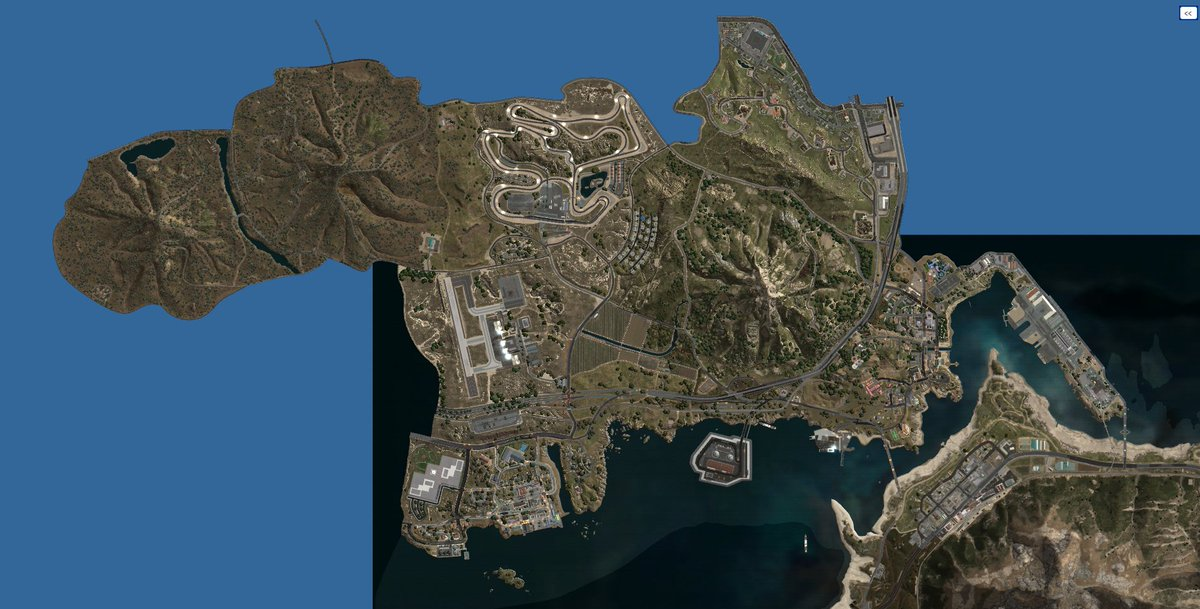
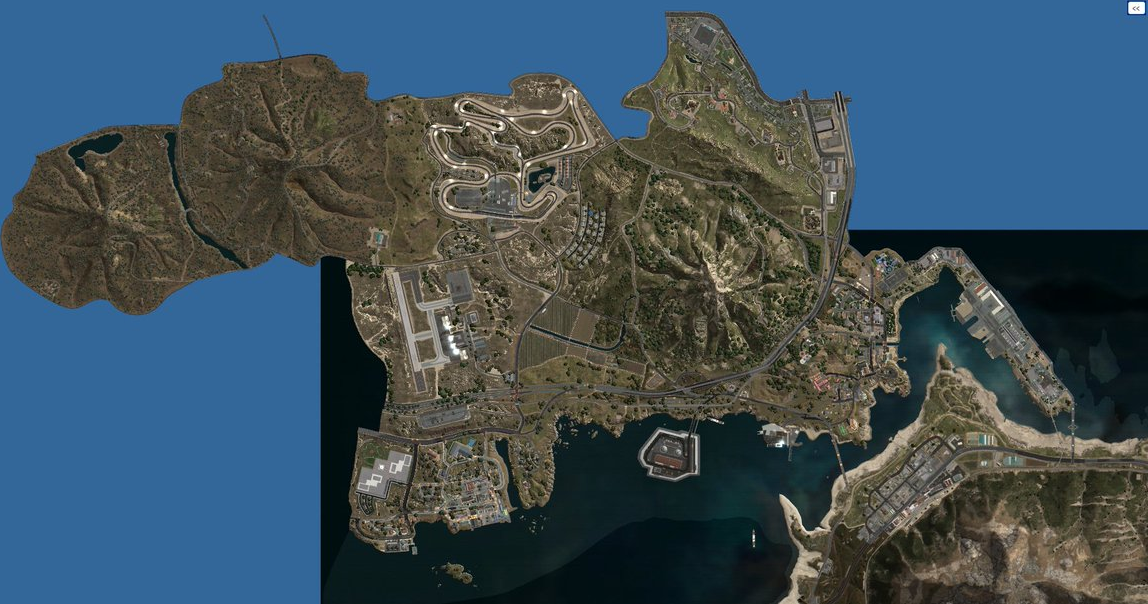
Trim excess ocean border from maps, rename Kiképzési Mátrix, bump v8
- Auto-trimmed the uniform blue background/water margin around Los
  Santos (1080x1467 -> 961x1371) and Roxwood (1200x609 -> 1148x604)
  with sharp's edge-trim, re-encoded lossless so no quality was lost
  in the process (first pass accidentally re-compressed lossy -
  caught it via file size and redid it losslessly).
- Renamed the "Képzési Mátrix" nav item to "Kiképzési Mátrix" to match
  the "Kiképzési" wording already used elsewhere (brand subtitle,
  login screen).
- Re-checked the Cayo Perico link sent again (cdn.discordapp.com,
  no proxy params) - same 545x500 source photo as before, still too
  low quality to use. Left on the placeholder per "Los Santos alone
  is enough for now."

diff --git a/js/app.js b/js/app.js
@@ -2,19 +2,19 @@
    U.S.S.S. ELITE TRAINING SYSTEM — APP ENTRY
    ========================================================================== */
 
-import { seedIfNeeded, globalSearch } from "./store.js?v=7";
-import { isAuthenticated, currentSession, logout, hasRole, ROLES } from "./auth.js?v=7";
-import { registerRoute, resolve, startRouter, navigate, currentPath } from "./router.js?v=7";
-import { esc, sealMark } from "./utils.js?v=7";
-import { renderLogin } from "./pages/login.js?v=7";
-import { renderDashboard } from "./pages/dashboard.js?v=7";
-import { renderPersonnelList } from "./pages/personnel.js?v=7";
-import { renderProfile } from "./pages/profile.js?v=7";
-import { renderMatrix } from "./pages/matrix.js?v=7";
-import { renderProtocolsList, renderProtocolDetail } from "./pages/protocols.js?v=7";
-import { renderLocationsList, renderLocationDetail } from "./pages/locations.js?v=7";
-import { renderMapPage } from "./pages/map.js?v=7";
-import { renderAdmin } from "./pages/admin.js?v=7";
+import { seedIfNeeded, globalSearch } from "./store.js?v=8";
+import { isAuthenticated, currentSession, logout, hasRole, ROLES } from "./auth.js?v=8";
+import { registerRoute, resolve, startRouter, navigate, currentPath } from "./router.js?v=8";
+import { esc, sealMark } from "./utils.js?v=8";
+import { renderLogin } from "./pages/login.js?v=8";
+import { renderDashboard } from "./pages/dashboard.js?v=8";
+import { renderPersonnelList } from "./pages/personnel.js?v=8";
+import { renderProfile } from "./pages/profile.js?v=8";
+import { renderMatrix } from "./pages/matrix.js?v=8";
+import { renderProtocolsList, renderProtocolDetail } from "./pages/protocols.js?v=8";
+import { renderLocationsList, renderLocationDetail } from "./pages/locations.js?v=8";
+import { renderMapPage } from "./pages/map.js?v=8";
+import { renderAdmin } from "./pages/admin.js?v=8";
 
 seedIfNeeded();
 
@@ -26,7 +26,7 @@ const NAV = [
   ]},
   { group: "Állomány & Képzés", items: [
     { path: "/personnel", label: "Állomány", icon: "☰" },
-    { path: "/matrix", label: "Képzési Mátrix", icon: "▦" },
+    { path: "/matrix", label: "Kiképzési Mátrix", icon: "▦" },
     { path: "/protocols", label: "Jegyzőkönyvek", icon: "▤" },
   ]},
   { group: "Objektumok", items: [

diff --git a/js/pages/locations.js b/js/pages/locations.js
@@ -1,9 +1,9 @@
-import { getLocations, getLocation, upsertLocation, deleteLocation, ref, mapById } from "../store.js?v=7";
-import { hasRole, actorLabel } from "../auth.js?v=7";
-import { esc, fmtDateTime, toast, openModal, closeModal } from "../utils.js?v=7";
-import { navigate } from "../router.js?v=7";
-import { createPanZoomMap } from "../mapview.js?v=7";
-import { openOnMap } from "./map.js?v=7";
+import { getLocations, getLocation, upsertLocation, deleteLocation, ref, mapById } from "../store.js?v=8";
+import { hasRole, actorLabel } from "../auth.js?v=8";
+import { esc, fmtDateTime, toast, openModal, closeModal } from "../utils.js?v=8";
+import { navigate } from "../router.js?v=8";
+import { createPanZoomMap } from "../mapview.js?v=8";
+import { openOnMap } from "./map.js?v=8";
 
 export function renderLocationsList(container) {
   const canEdit = hasRole("TRAINING");

diff --git a/js/pages/map.js b/js/pages/map.js
@@ -1,9 +1,9 @@
-import { ref, mapById, locationsForMap, districtsForMap, upsertDistrict, deleteDistrict } from "../store.js?v=7";
-import { hasRole, actorLabel } from "../auth.js?v=7";
-import { esc, toast, openModal, closeModal } from "../utils.js?v=7";
-import { navigate } from "../router.js?v=7";
-import { createPanZoomMap } from "../mapview.js?v=7";
-import { openLocationForm } from "./locations.js?v=7";
+import { ref, mapById, locationsForMap, districtsForMap, upsertDistrict, deleteDistrict } from "../store.js?v=8";
+import { hasRole, actorLabel } from "../auth.js?v=8";
+import { esc, toast, openModal, closeModal } from "../utils.js?v=8";
+import { navigate } from "../router.js?v=8";
+import { createPanZoomMap } from "../mapview.js?v=8";
+import { openLocationForm } from "./locations.js?v=8";
 
 let activeMapId = null;
 let addingDistrict = false;

diff --git a/js/pages/profile.js b/js/pages/profile.js
@@ -2,10 +2,10 @@ import {
   getPerson, ref, moduleState, readinessPercent, levelProgress, probationInfo,
   setModuleTheory, setModulePractical, approveLevelUp, nextLevelId, liftProbation,
   levelLabel, moduleByCode, examStats, THEORY_PASS_THRESHOLD,
-} from "../store.js?v=7";
-import { hasRole, actorLabel } from "../auth.js?v=7";
-import { esc, initials, fmtDate, fmtDateTime, toast, openModal, closeModal } from "../utils.js?v=7";
-import { navigate } from "../router.js?v=7";
+} from "../store.js?v=8";
+import { hasRole, actorLabel } from "../auth.js?v=8";
+import { esc, initials, fmtDate, fmtDateTime, toast, openModal, closeModal } from "../utils.js?v=8";
+import { navigate } from "../router.js?v=8";
 
 let activeTab = "modules";
 

diff --git a/js/pages/protocols.js b/js/pages/protocols.js
@@ -1,7 +1,7 @@
-import { getProtocols, getProtocol, getPersonnel, createProtocol, ref, moduleByCode } from "../store.js?v=7";
-import { hasRole, actorLabel } from "../auth.js?v=7";
-import { esc, fmtDate, fmtDateTime, toast, openModal, closeModal } from "../utils.js?v=7";
-import { navigate } from "../router.js?v=7";
+import { getProtocols, getProtocol, getPersonnel, createProtocol, ref, moduleByCode } from "../store.js?v=8";
+import { hasRole, actorLabel } from "../auth.js?v=8";
+import { esc, fmtDate, fmtDateTime, toast, openModal, closeModal } from "../utils.js?v=8";
+import { navigate } from "../router.js?v=8";
 
 export function renderProtocolsList(container) {
   const canEdit = hasRole("TRAINING");

diff --git a/js/pages/personnel.js b/js/pages/personnel.js
@@ -1,7 +1,7 @@
-import { getPersonnel, upsertPerson, deletePerson, readinessPercent, ref, probationInfo } from "../store.js?v=7";
-import { hasRole, actorLabel } from "../auth.js?v=7";
-import { esc, initials, toast, openModal, closeModal } from "../utils.js?v=7";
-import { navigate } from "../router.js?v=7";
+import { getPersonnel, upsertPerson, deletePerson, readinessPercent, ref, probationInfo } from "../store.js?v=8";
+import { hasRole, actorLabel } from "../auth.js?v=8";
+import { esc, initials, toast, openModal, closeModal } from "../utils.js?v=8";
+import { navigate } from "../router.js?v=8";
 
 let state = { search: "", position: "", level: "", status: "" };
 

diff --git a/js/pages/admin.js b/js/pages/admin.js
@@ -1,6 +1,6 @@
-import { getAccessCodes, upsertAccessCode, revokeAccessCode, generateCode, getAuditLog, getPersonnel, resetAllData, ref } from "../store.js?v=7";
-import { hasRole, actorLabel, ROLES } from "../auth.js?v=7";
-import { esc, fmtDateTime, toast, openModal, closeModal } from "../utils.js?v=7";
+import { getAccessCodes, upsertAccessCode, revokeAccessCode, generateCode, getAuditLog, getPersonnel, resetAllData, ref } from "../store.js?v=8";
+import { hasRole, actorLabel, ROLES } from "../auth.js?v=8";
+import { esc, fmtDateTime, toast, openModal, closeModal } from "../utils.js?v=8";
 
 let activeTab = "access";
 

diff --git a/js/pages/matrix.js b/js/pages/matrix.js
@@ -1,8 +1,8 @@
-import { getPersonnel, ref, moduleState, moduleByCode } from "../store.js?v=7";
-import { hasRole } from "../auth.js?v=7";
-import { esc, initials } from "../utils.js?v=7";
-import { navigate } from "../router.js?v=7";
-import { openModuleDetail } from "./profile.js?v=7";
+import { getPersonnel, ref, moduleState, moduleByCode } from "../store.js?v=8";
+import { hasRole } from "../auth.js?v=8";
+import { esc, initials } from "../utils.js?v=8";
+import { navigate } from "../router.js?v=8";
+import { openModuleDetail } from "./profile.js?v=8";
 
 let filterLevel = "";
 let filterModule = "";

diff --git a/index.html b/index.html
@@ -9,10 +9,10 @@
 <meta name="theme-color" content="#06070a" />
 <link rel="preconnect" href="https://fonts.googleapis.com">
 <link href="https://fonts.googleapis.com/css2?family=Cormorant+Garamond:wght@500;600;700&family=Inter:wght@400;500;600;700&family=IBM+Plex+Mono:wght@400;500;600&display=swap" rel="stylesheet">
-<link rel="stylesheet" href="css/style.css?v=7" />
+<link rel="stylesheet" href="css/style.css?v=8" />
 </head>
 <body>
 <div id="root"></div>
-<script type="module" src="js/app.js?v=7"></script>
+<script type="module" src="js/app.js?v=8"></script>
 </body>
 </html>

diff --git a/js/pages/dashboard.js b/js/pages/dashboard.js
@@ -1,7 +1,7 @@
-import { getPersonnel, getProtocols, getLocations, readinessPercent, ref } from "../store.js?v=7";
-import { hasRole } from "../auth.js?v=7";
-import { esc, initials } from "../utils.js?v=7";
-import { navigate } from "../router.js?v=7";
+import { getPersonnel, getProtocols, getLocations, readinessPercent, ref } from "../store.js?v=8";
+import { hasRole } from "../auth.js?v=8";
+import { esc, initials } from "../utils.js?v=8";
+import { navigate } from "../router.js?v=8";
 
 export function renderDashboard(container) {
   const personnel = getPersonnel();

diff --git a/js/mapview.js b/js/mapview.js
@@ -6,7 +6,7 @@
    Hiányzó térképkép esetén sötét placeholderre esik vissza, hogy a
    pöttyök/címkék attól még szerkeszthetők/megtekinthetők maradjanak.
    ========================================================================== */
-import { esc } from "./utils.js?v=7";
+import { esc } from "./utils.js?v=8";
 
 const DEFAULT_STAGE_W = 1400;
 const DEFAULT_STAGE_H = 1900; // placeholder arány, amíg nincs kép betöltve

diff --git a/js/store.js b/js/store.js
@@ -9,7 +9,7 @@
 import {
   LEVELS, SERVICE_STATUSES, POSITIONS, MODULES, LEVEL_MODULE_ORDER,
   PERSONNEL, ACCESS_CODES, PROTECTED_LOCATIONS, AUDIT_LOG_SEED, MAPS, DISTRICTS,
-} from "./data.js?v=7";
+} from "./data.js?v=8";
 
 /* v5: Dominic Hayes pozíciója Oktatásvezető + garantált újra-seedelés. */
 const NS = "usss_ets_v5_";
